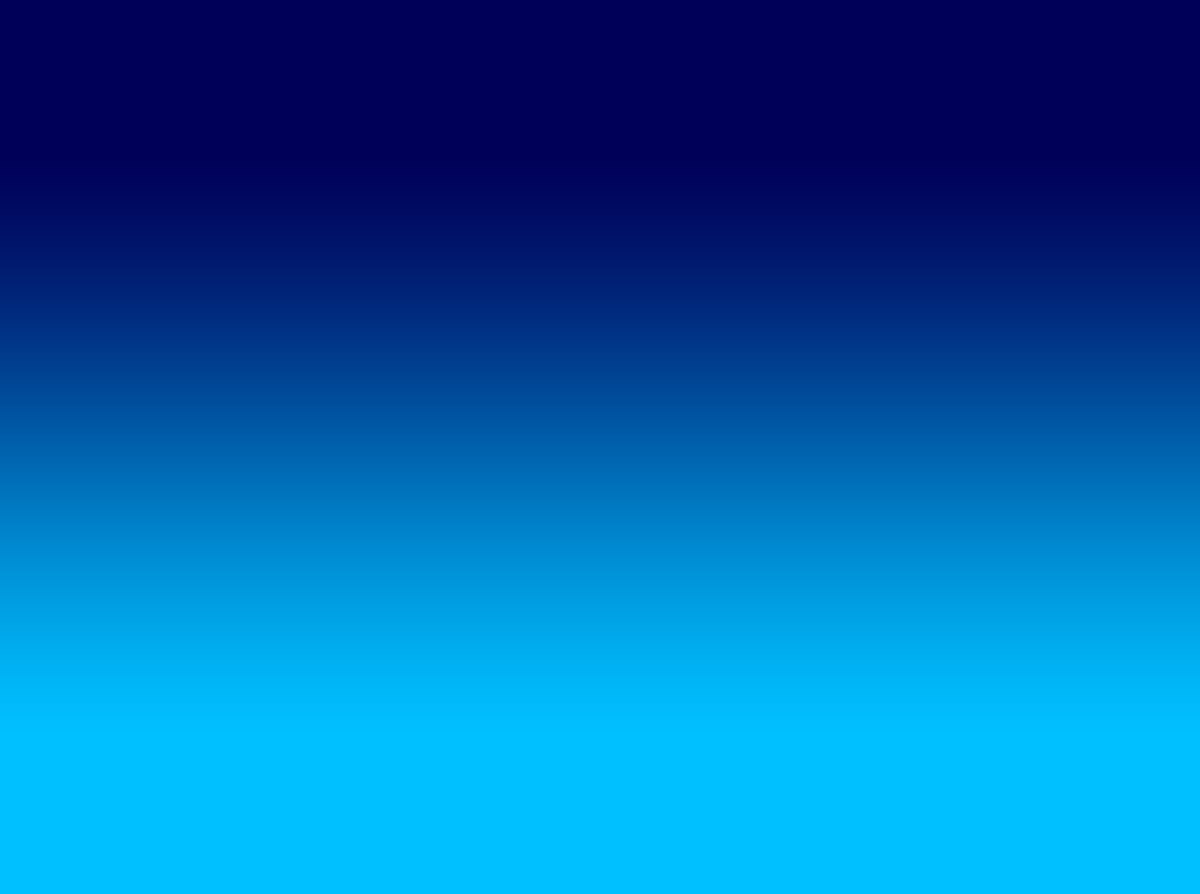
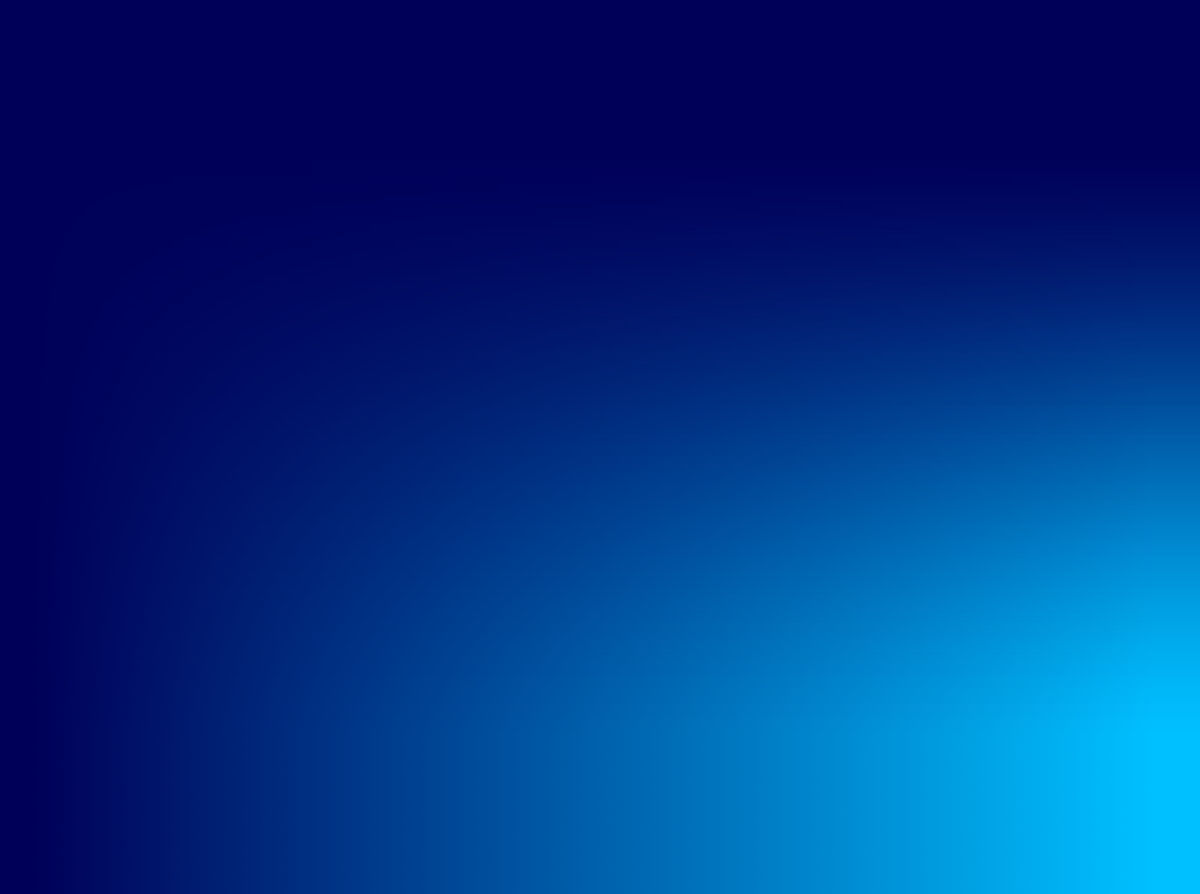
new proposal for car list styles

diff --git a/src/default.sass.css b/src/default.sass.css
@@ -29,11 +29,11 @@ $racecar_cyan: #00c0ff
 body
   margin: 0
   font: 76% tahoma, verdana, sans-serif
-  background: $racecar_blue url(images/bg.jpg) repeat-x bottom
+  background: $racecar_blue url(images/bg.jpg) no-repeat bottom right
   color: #222222
 
 #wrap
-  background: url(images/bg_bottom.png) no-repeat bottom center fixed
+  background: url(images/bg_bottom.png) no-repeat bottom right fixed
   overflow: auto
   padding: 30px 0
 
@@ -156,7 +156,7 @@ p
   ul.linklist
     list-style-image: none
     margin: 0
-    padding: 0
+    /*padding: 0
     text-align: center
     li
       display: inline
@@ -184,6 +184,7 @@ p
   .styled_list
     ul
       list-style: none
+      margin-left: 0px !important
       li
         margin: 12px
         float: left
@@ -195,29 +196,32 @@ p
           background: url(cars/images/RC-12/85_thumbnail.jpg) no-repeat center center
         &#rc11
           background: url(cars/images/RC-11/33_thumbnail.jpg) no-repeat center center
-        &#rc14
-          background: url(cars/images/RC-14/GP4/103_thumbnail.jpg) no-repeat center center
-        &#rc14
-          background: url(cars/images/RC-14/GP4/103_thumbnail.jpg) no-repeat center center
-        &#rc14
-          background: url(cars/images/RC-14/GP4/103_thumbnail.jpg) no-repeat center center
+        &#rc10
+          background: url(cars/images/RC-10/72_thumbnail.jpg) no-repeat center center
+        &#rc09
+          background: url(cars/images/RC-09/37_thumbnail.jpg) no-repeat center center
+        &#rc07
+          background: url(cars/images/RC-07/36_thumbnail.jpg) no-repeat center center
+        &#rc09cy
+          background: url(cars/images/RC-09-CY/grab_214_thumbnail.jpg) no-repeat center center
         a
           width: 200px
-          height: 142px
+          height: 70px
           display: block
+          background-color: rgba(255, 255, 255, 0.55)
           border: 2px solid #ddd
-          padding: 3px
           border-radius: 3px
           -moz-border-radius: 3px
           -webkit-border-radius: 3px
-          color: white
+          color: $racecar_blue
           font-weight: bold
           font-size: 1.3em
           text-decoration: none
           +transitions
           &:hover
-            color: $racecar_blue
+            color: white
             border-color: $racecar_cyan
+            background-color: rgba(255, 255, 255, 0.0)
       
 =menu_tabs
   display: block
